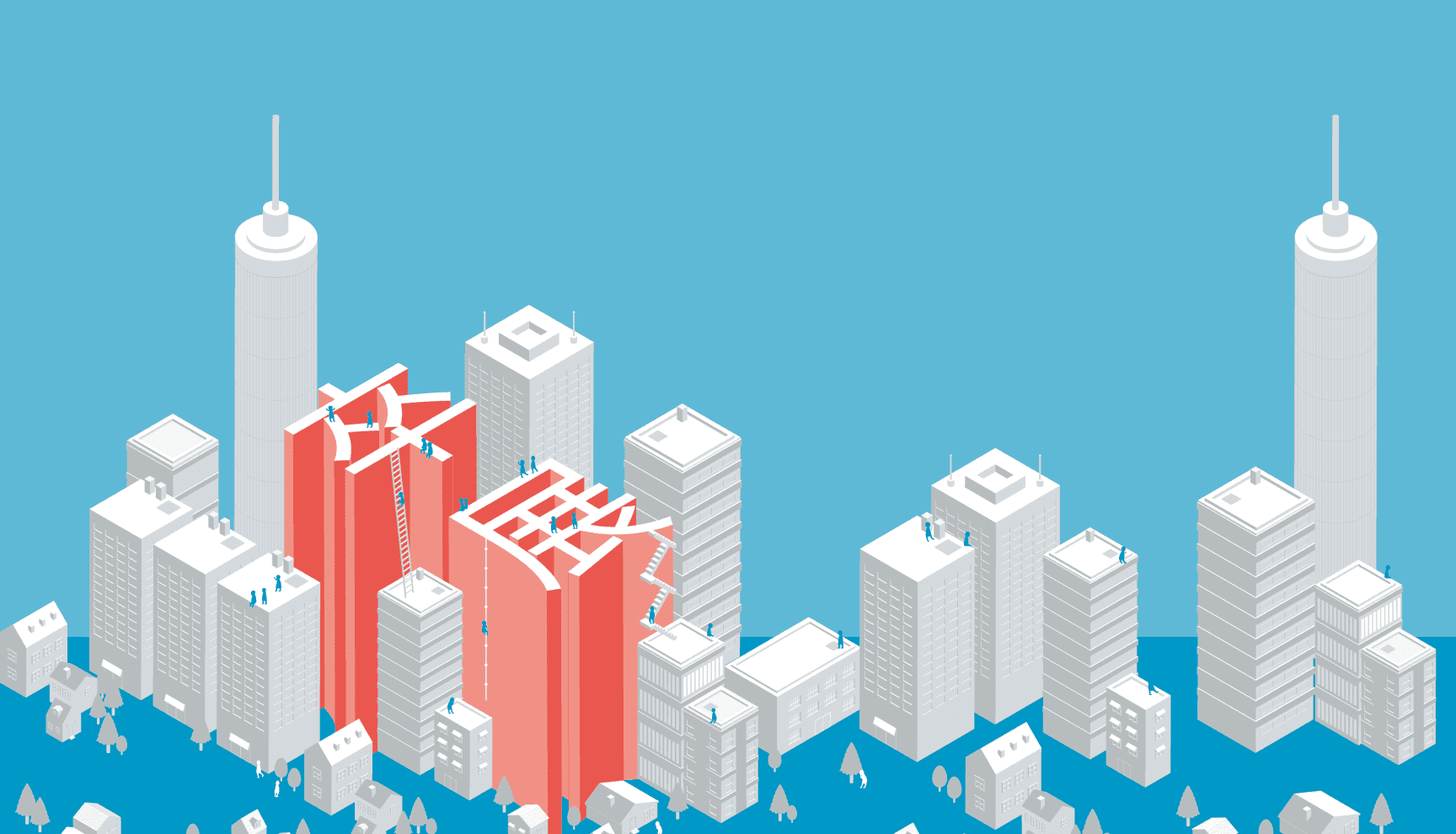
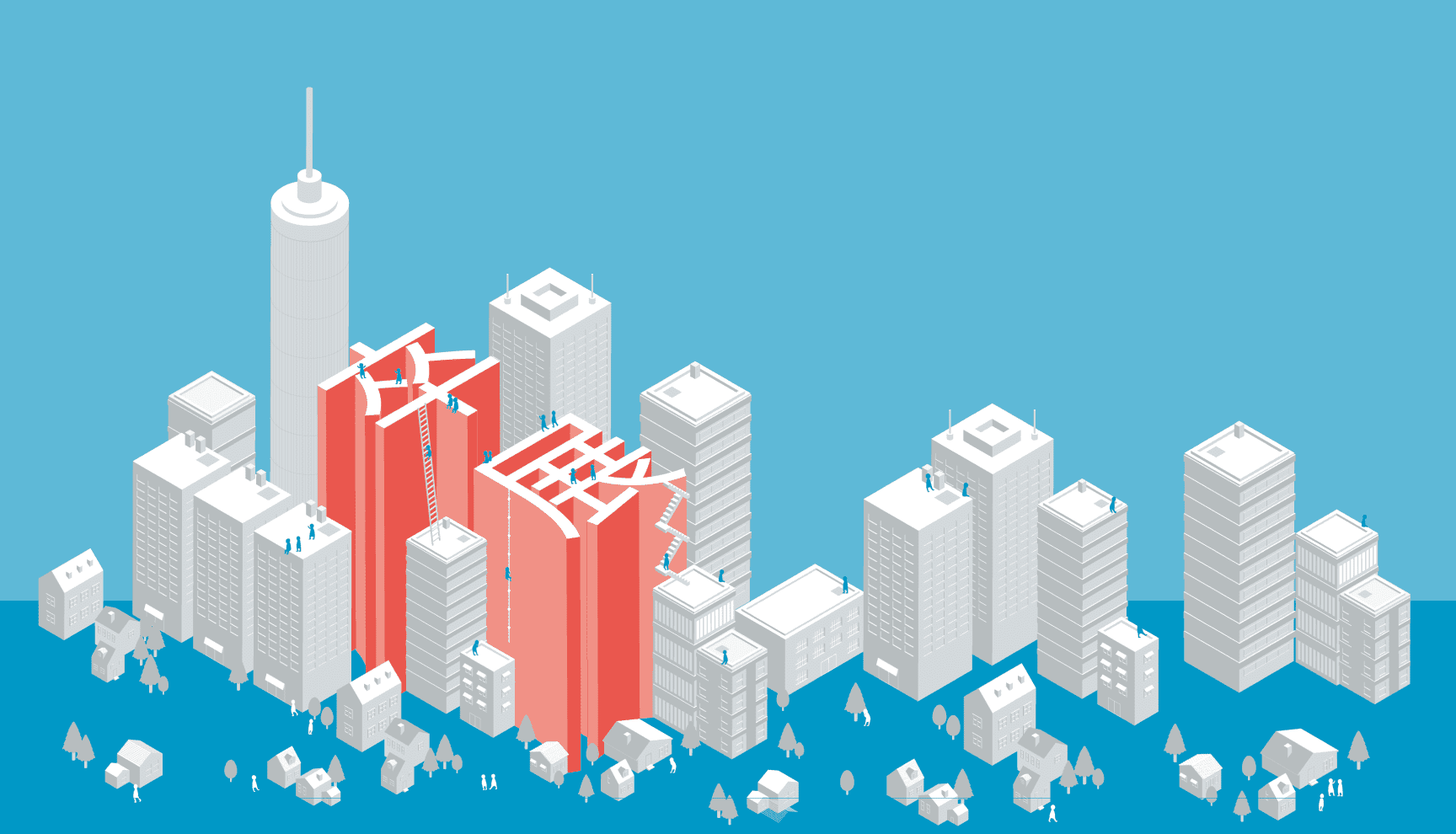
メインビジュアル、タイトル画像差し替え

diff --git a/docs/index.html b/docs/index.html
@@ -1,1 +1,1 @@
-<html lang="ja"> <head prefix="og:http://ogp.me/ns#"> <meta property="og:url" content="https://myu-design.jp/sotsuten2021/"> <meta property="og:type" content="website"> <meta property="og:image" content="https://myu-design.jp/sotsuten2021/img/background.png"> <meta property="og:title" content="宮城大学 2021年度 卒業研究・制作展"> <meta property="og:description" content="2021年度 宮城大学 事業構想学群 価値創造デザイン学類 卒業研究・制作展 + 宮城大学院 事業構想学研究科 修士 制作展"> <meta name="twitter:card" content="summary"> <meta charset="utf-8"> <meta name="description" content="2021年度 宮城大学 事業構想学群 価値創造デザイン学類 卒業研究・制作展 + 宮城大学院 事業構想学研究科 修士 制作展"> <meta name="viewport" content="width=device-width,initial-scale=1"> <link rel="icon" href="favicon.ico"> <title>宮城大学 2021年度 卒業研究・制作展</title> <link rel="stylesheet" href="css/common.css"> <link rel="stylesheet" href="css/style.css"> <script src="js/main.js"></script> </head> <body> <div id="loading"> <div id="load-box"> <svg id="load-svg" width="24" height="64" viewBox="0 0 21 64" fill="#00A3D6"> <path id="man-foot-1" d="M11.7948 40.0643C11.6898 42.1259 10.7779 51.2616 10.7272 51.9929C11.5528 52.0605 12.2342 52.0833 12.9041 52.1838C13.0004 52.1904 13.0944 52.2158 13.1807 52.2587C13.2669 52.3015 13.3437 52.361 13.4065 52.4335C13.4693 52.506 13.5169 52.5902 13.5464 52.6811C13.576 52.772 13.587 52.8678 13.5788 52.963C13.5821 53.1734 13.5018 53.3768 13.3552 53.5293C13.2086 53.6818 13.0073 53.7713 12.7947 53.7785C12.6086 53.8003 11.0622 53.7507 10.4159 53.8208C9.15825 53.9597 8.83721 53.7587 8.69258 52.5126C8.35474 49.6038 7.32023 39.8386 7.30448 39.6155C7.19948 38.1243 11.8751 38.4868 11.7948 40.0641"/> <path id="man-foot-2" d="M11.7948 40.0643C11.6898 42.1259 10.7779 51.2616 10.7272 51.9929C11.5528 52.0605 12.2342 52.0833 12.9041 52.1838C13.0004 52.1904 13.0944 52.2158 13.1807 52.2587C13.2669 52.3015 13.3437 52.361 13.4065 52.4335C13.4693 52.506 13.5169 52.5902 13.5464 52.6811C13.576 52.772 13.587 52.8678 13.5788 52.963C13.5821 53.1734 13.5018 53.3768 13.3552 53.5293C13.2086 53.6818 13.0073 53.7713 12.7947 53.7785C12.6086 53.8003 11.0622 53.7507 10.4159 53.8208C9.15825 53.9597 8.83721 53.7587 8.69258 52.5126C8.35474 49.6038 7.32023 39.8386 7.30448 39.6155C7.19948 38.1243 11.8751 38.4868 11.7948 40.0641"/> <path id="man-body" d="M12.2678 22.2904C14.0557 21.8972 16.6148 19.5858 16.6148 16.7666C16.5819 15.276 15.9566 13.8583 14.8745 12.8207C13.7924 11.783 12.3407 11.209 10.8338 11.223C6.85848 11.223 5.07453 14.0721 5.07453 16.6736C5.07453 18.8414 6.34293 20.2449 8.49438 22.1728C6.68235 24.6273 3.79747 28.9354 2.65402 39.4691C2.22641 43.9468 6.62276 44.7571 9.37743 44.726C11.6244 44.7566 16.6151 44.7299 16.6148 39.164C16.6148 29.4689 13.7404 24.787 12.2678 22.2899"/> </svg> <div id="load-bar"></div> </div> </div> <header> <label for="menu-check" class="test"><img id="menu-button" src="./img/menu-button.svg" alt="menu-button"/></label> <input type="checkbox" id="menu-check"> <ul id="header-ul"> <li class="header-li"> <a href="#outline"><img class="header-nav-img" src="./img/outline.svg"/></a> </li> <li class="header-li"> <a href="#greeting"><img class="header-nav-img" src="./img/greeting.svg"/></a> </li> <li class="header-li"> <a href="#contents"><img class="header-nav-img" src="./img/contents.svg"/></a> </li> <li class="header-li"> <a href="#event"><img class="header-nav-img" src="./img/event.svg"/></a> </li> <li class="header-li"> <a href="#access"><img class="header-nav-img" src="./img/access.svg"/></a> </li> </ul> </header> <div id="header-space"></div> <div id="top-img"> <img id="title-img" src="./img/title.svg" alt="title"> <img id="title-img-sp" src="./img/title-sp.svg" alt="title"> </div> <div id="top-info-outer-div"> <div id="top-info-inner-div"> <div id="top-info-text-div">新型コロナウイルス感染症への対応について</div> </div> </div> <div id="modal"> <div id="modal-window"> <div id="modal-contents"> <h1>新型コロナウイルス感染症への対応について</h1> <p>宮城大学・卒展2021の開催にあたり、安心してご鑑賞いただくため、新型コロナウイルス感染症拡大防止に必要な対策を講じてまいります。皆様にはご不便をおかけしますが、ご来場の際にはご理解とご協力をお願いいたします。また、新型コロナウイルス感染症拡大により公開を中止する場合があります。来場前に必ずホームページにて開催状況を確認の上ご来場ください。</p> <h3>以下の方はご来場をお控えください。</h3> <ul> <li>37.5℃以上の発熱がある方</li> <li>倦怠感や息苦しさがある方</li> <li>味覚・嗅覚に異常を感じる方</li> <li>身近に新型コロナウイルス感染者（疑いを含む）がいる方</li> <li>過去14日以内に新型コロナウイルス感染者と濃厚接触があった方</li> <li>過去14日以内に感染拡大地域や海外への渡航歴がある方</li> </ul> <h3>入場の際には下記にご協力ください。</h3> <ul> <li>必ずマスクの着用をお願いします。</li> <li>展示会場内は一方通行にご協力ください。(サインを掲示しておりますので、ご確認ください。)</li> </ul> <h3>展示会場での取り組み</h3> <ul> <li>万が一、会場内で新型コロナウイルス感染症の感染者が出た場合に備え、ご入場前に「お名前・住所・連絡先」を記入いただきます。(個人情報の取り扱いには十分留意し、他の用途には使用いたしませんので、ご了承ください。)</li> <li>会場内入り口付近に手指消毒液を配置しています。ご入場の前に消毒にご協力ください。</li> <li>スタッフはマスクを着用し、手洗い、消毒液などによる手指消毒を励行いたします。</li> <li>ご来場の皆様がお手を触れられる箇所は、こまめにアルコール消毒をおこないます。</li> </ul> </div> <div id="modal-close-div"> <button id="modal-close-button">CLOSE</button> </div> </div> </div> <main> <section id="outline"> <img src="./img/outline-red.svg"/> <div class="section-title-ja">開催概要</div> <div id="outline-name"> 宮城大学 事業構想学群<br> 生活環境・感性情報デザインコース<br> 空間デザインコース・メディアデザインコース<br> 卒業研究・制作展＋大学院事業構想学研究科修士制作展 </div> <ul> <li>場所｜宮城大学大和キャンパス デザイン研究棟ほか</li> <li>日時｜2022年2月18日(金) - 20日(日) 10:00 ~ 19:00</li> <li>入場料金｜無料</li> </ul> </section> <section id="greeting"> <img src="img/greeting-red.svg"/> <div class="section-title-ja">開催にあたって</div> <p> かつてワルター・グロピウスが「旅する建築家として私の心にまず浮かぶのは、芸術家・建築家・プランナーは、新しい文化に何を貢献しうるかという疑問であった。」と言ったように、デザイナーは新たなモノや価値を生み出す職能として理解されているが、過去の文化を更新してゆくことでしか新しい文化に到達しえないのだとすれば、ここに発表された数々の学生たちの試みはデザインとしての本質を十分に踏まえたものだと言えるのではないだろうか。<br> <br> グロピウスは続ける。 「最も大切だと思われることは、あらゆるデザイナーが自分の個人的なデザインについて、全体のなかで果たす役割を考えることである。」と。卒業制作では学生が個々に社会での役割を「想定」し、できる限りの提案をするが、これからは実際の社会で、大学で取り組む課題では直面しえない、想定を上回る場面の連続に直面することになるだろう。<br> <br> 折しも一昨年来のコロナ禍で世界はこれまでの価値観では対応できないことが増えている。恐れずむしろ新たな価値観を社会に提案し、その価値を確かめていく勇気と心構えを携えていく彼らの旅の始まりを言祝ぐ機会になればと思う。 </p> <div id="greeting-teacher-div"> <div id="greeting-teacher-name"> <span class="other-span">価値創造デザイン学類長</span> <span class="other-span">土岐謙次 教授</span> </div> <img src="img/greeting_teacher-img.png" id="greeting-img"> </div> </section> <section id="contents"> <img src="./img/contents-red.svg"/> <div class="section-title-ja">展示研究室</div> <div class="contents_list"> <h2>感性情報デザインコース</h2> <h3>鹿野研究室</h3> <div id="kano-labo"> </div> <h3>須栗研究室</h3> <div id="suguri-labo"> </div> <h3>鈴木研究室</h3> <div id="suzuki-labo"> </div> <h3>土岐研究室</h3> <div id="toki-labo"> </div> <h3>日原研究室</h3> <div id="hihara-labo"> </div> <h3>蒔苗研究室</h3> <div id="makanae-labo"> </div> <br> <h2>生活環境デザインコース</h2> <h3>伊藤研究室</h3> <div id="itoh-labo"> </div> <h3>井上研究室</h3> <div id="inoue-labo"> </div> <h3>中田研究室</h3> <div id="nakata-labo"> </div> <h3>平岡研究室</h3> <div id="hiraoka-labo"> </div> <h3>小地沢研究室</h3> <div id="kochizawa-labo"> </div> <div id="research-link-div"> <a href="https://www.myu-design.jp/research/" role="button" id="research-link">卒展作品集サイトはこちら</a> </div> </div> </section> <section id="event"> <img src="./img/event-red.svg"/> <div class="section-title-ja">イベント</div> <h2>卒業制作自主レビュー</h2> <p>大学外部からゲスト講師を招き、学生による自主レビューを開催します。</p> <ul> <li>場所 | 宮城大学大和キャンパス（卒展会場）</li> <li>日時 | 2022年2月19日(土)</li> <li>主催 | 宮城大学 事業構想学群 価値創造デザイン学類</li> <li>協力 | 宮城大学 地域連携センター</li> </ul> <h2>タイムテーブル</h2> <p>comming sooon</p> <br> <h2>講師プロフィール</h2> <ul id="lecturer-profile-ul"> </ul> </section> <section id="access"> <img src="./img/access-red.svg"/> <div class="section-title-ja">アクセス</div> <p>宮城大学 大和キャンパス</p> <p>〒981-3298 宮城県黒川郡大和町学苑1番地1</p> <div id="map"> <iframe src="https://www.google.com/maps/embed?pb=!1m18!1m12!1m3!1d3128.981830604022!2d140.83872361514474!3d38.349402579658985!2m3!1f0!2f0!3f0!3m2!1i1024!2i768!4f13.1!3m3!1m2!1s0x5f8981bbb6048c0b%3A0x381e04faa6d0b3e!2z5a6u5Z-O5aSn5a2mIOWkp-WSjOOCreODo-ODs-ODkeOCuQ!5e0!3m2!1sja!2sjp!4v1610949813968!5m2!1sja!2sjp" width="100%" height="100%" frameborder="0" style="border:0" allowfullscreen="" aria-hidden="false" tabindex="0"></iframe> </div> </section> </main> <footer> <div id="footer-contact-div"> <span class="other-span">卒業研究・制作展事務局</span><br> <span class="other-span">myu_sotsuten@myu.ac.jp</span><br> <span class="other-span">022-377-8332</span> </div> <div class="footer_center"> <a href="http://myu-design.jp/" role="button" id="portal-link">宮城大学デザインポータルHP</a> </div> <div>MYU Design&copy;2021</div> </footer> </body> </html>
+<html lang="ja"> <head prefix="og:http://ogp.me/ns#"> <meta property="og:url" content="https://myu-design.jp/sotsuten2021/"> <meta property="og:type" content="website"> <meta property="og:image" content="https://myu-design.jp/sotsuten2021/img/background.png"> <meta property="og:title" content="宮城大学 2021年度 卒業研究・制作展"> <meta property="og:description" content="2021年度 宮城大学 事業構想学群 価値創造デザイン学類 卒業研究・制作展 + 宮城大学院 事業構想学研究科 修士 制作展"> <meta name="twitter:card" content="summary"> <meta charset="utf-8"> <meta name="description" content="2021年度 宮城大学 事業構想学群 価値創造デザイン学類 卒業研究・制作展 + 宮城大学院 事業構想学研究科 修士 制作展"> <meta name="viewport" content="width=device-width,initial-scale=1"> <link rel="icon" href="favicon.ico"> <title>宮城大学 2021年度 卒業研究・制作展</title> <link rel="stylesheet" href="css/common.css"> <link rel="stylesheet" href="css/style.css"> <script src="js/main.js"></script> </head> <body> <header> <label for="menu-check" class="test"><img id="menu-button" src="./img/menu-button.svg" alt="menu-button"/></label> <input type="checkbox" id="menu-check"> <nav> <ul id="header-ul"> <li class="header-li"> <a href="#outline"><img class="header-nav-img" src="./img/outline.svg"/></a> </li> <li class="header-li"> <a href="#greeting"><img class="header-nav-img" src="./img/greeting.svg"/></a> </li> <li class="header-li"> <a href="#contents"><img class="header-nav-img" src="./img/contents.svg"/></a> </li> <li class="header-li"> <a href="#event"><img class="header-nav-img" src="./img/event.svg"/></a> </li> <li class="header-li"> <a href="#access"><img class="header-nav-img" src="./img/access.svg"/></a> </li> </ul> </nav> </header> <div id="header-space"></div> <div> <img id="top-background-img" src="./img/background.png" alt=""> <img id="title-img" src="./img/title.png" alt="title"> <img id="title-img-sp" src="./img/title-sp.png" alt="title"> </div> <div id="top-info-outer-div"> <div id="top-info-inner-div"> <div id="top-info-text-div">新型コロナウイルス感染症への対応について</div> </div> </div> <div id="modal"> <div id="modal-window"> <div id="modal-contents"> <h1>新型コロナウイルス感染症への対応について</h1> <p>宮城大学・卒展2021の開催にあたり、安心してご鑑賞いただくため、新型コロナウイルス感染症拡大防止に必要な対策を講じてまいります。皆様にはご不便をおかけしますが、ご来場の際にはご理解とご協力をお願いいたします。また、新型コロナウイルス感染症拡大により公開を中止する場合があります。来場前に必ずホームページにて開催状況を確認の上ご来場ください。</p> <h3>以下の方はご来場をお控えください。</h3> <ul> <li>37.5℃以上の発熱がある方</li> <li>倦怠感や息苦しさがある方</li> <li>味覚・嗅覚に異常を感じる方</li> <li>身近に新型コロナウイルス感染者（疑いを含む）がいる方</li> <li>過去14日以内に新型コロナウイルス感染者と濃厚接触があった方</li> <li>過去14日以内に感染拡大地域や海外への渡航歴がある方</li> </ul> <h3>入場の際には下記にご協力ください。</h3> <ul> <li>必ずマスクの着用をお願いします。</li> <li>展示会場内は一方通行にご協力ください。(サインを掲示しておりますので、ご確認ください。)</li> </ul> <h3>展示会場での取り組み</h3> <ul> <li>万が一、会場内で新型コロナウイルス感染症の感染者が出た場合に備え、ご入場前に「お名前・住所・連絡先」を記入いただきます。(個人情報の取り扱いには十分留意し、他の用途には使用いたしませんので、ご了承ください。)</li> <li>会場内入り口付近に手指消毒液を配置しています。ご入場の前に消毒にご協力ください。</li> <li>スタッフはマスクを着用し、手洗い、消毒液などによる手指消毒を励行いたします。</li> <li>ご来場の皆様がお手を触れられる箇所は、こまめにアルコール消毒をおこないます。</li> </ul> </div> <div id="modal-close-div"> <button id="modal-close-button">CLOSE</button> </div> </div> </div> <main> <section id="outline"> <img src="./img/outline-red.svg"/> <div class="section-title-ja">開催概要</div> <div id="outline-name"> 宮城大学 事業構想学群<br> 生活環境・感性情報デザインコース<br> 空間デザインコース・メディアデザインコース<br> 卒業研究・制作展＋大学院事業構想学研究科修士制作展 </div> <ul> <li>場所｜宮城大学大和キャンパス デザイン研究棟ほか</li> <li>日時｜2022年2月18日(金) - 20日(日) 10:00 ~ 19:00</li> <li>入場料金｜無料</li> </ul> </section> <section id="greeting"> <img src="img/greeting-red.svg"/> <div class="section-title-ja">開催にあたって</div> <p> かつてワルター・グロピウスが「旅する建築家として私の心にまず浮かぶのは、芸術家・建築家・プランナーは、新しい文化に何を貢献しうるかという疑問であった。」と言ったように、デザイナーは新たなモノや価値を生み出す職能として理解されているが、過去の文化を更新してゆくことでしか新しい文化に到達しえないのだとすれば、ここに発表された数々の学生たちの試みはデザインとしての本質を十分に踏まえたものだと言えるのではないだろうか。<br> <br> グロピウスは続ける。 「最も大切だと思われることは、あらゆるデザイナーが自分の個人的なデザインについて、全体のなかで果たす役割を考えることである。」と。卒業制作では学生が個々に社会での役割を「想定」し、できる限りの提案をするが、これからは実際の社会で、大学で取り組む課題では直面しえない、想定を上回る場面の連続に直面することになるだろう。<br> <br> 折しも一昨年来のコロナ禍で世界はこれまでの価値観では対応できないことが増えている。恐れずむしろ新たな価値観を社会に提案し、その価値を確かめていく勇気と心構えを携えていく彼らの旅の始まりを言祝ぐ機会になればと思う。 </p> <div id="greeting-teacher-div"> <div id="greeting-teacher-name"> <span class="other-span">価値創造デザイン学類長</span> <span class="other-span">土岐謙次 教授</span> </div> <img src="img/greeting_teacher-img.png" id="greeting-img"> </div> </section> <section id="contents"> <img src="./img/contents-red.svg"/> <div class="section-title-ja">展示研究室</div> <div class="contents_list"> <h2>感性情報デザインコース</h2> <h3>鹿野研究室</h3> <div id="kano-labo"> </div> <h3>須栗研究室</h3> <div id="suguri-labo"> </div> <h3>鈴木研究室</h3> <div id="suzuki-labo"> </div> <h3>土岐研究室</h3> <div id="toki-labo"> </div> <h3>日原研究室</h3> <div id="hihara-labo"> </div> <h3>蒔苗研究室</h3> <div id="makanae-labo"> </div> <br> <h2>生活環境デザインコース</h2> <h3>伊藤研究室</h3> <div id="itoh-labo"> </div> <h3>井上研究室</h3> <div id="inoue-labo"> </div> <h3>中田研究室</h3> <div id="nakata-labo"> </div> <h3>平岡研究室</h3> <div id="hiraoka-labo"> </div> <h3>小地沢研究室</h3> <div id="kochizawa-labo"> </div> <div id="research-link-div"> <a href="https://www.myu-design.jp/research/" role="button" id="research-link">卒展作品集サイトはこちら</a> </div> </div> </section> <section id="event"> <img src="./img/event-red.svg"/> <div class="section-title-ja">イベント</div> <h2>卒業制作自主レビュー</h2> <p>大学外部からゲスト講師を招き、学生による自主レビューを開催します。</p> <ul> <li>場所 | 宮城大学大和キャンパス（卒展会場）</li> <li>日時 | 2022年2月19日(土)</li> <li>主催 | 宮城大学 事業構想学群 価値創造デザイン学類</li> <li>協力 | 宮城大学 地域連携センター</li> </ul> <h2>タイムテーブル</h2> <p>comming sooon</p> <br> <h2>講師プロフィール</h2> <ul id="lecturer-profile-ul"> </ul> </section> <section id="access"> <img src="./img/access-red.svg"/> <div class="section-title-ja">アクセス</div> <p>宮城大学 大和キャンパス</p> <p>〒981-3298 宮城県黒川郡大和町学苑1番地1</p> <div id="map"> <iframe src="https://www.google.com/maps/embed?pb=!1m18!1m12!1m3!1d3128.981830604022!2d140.83872361514474!3d38.349402579658985!2m3!1f0!2f0!3f0!3m2!1i1024!2i768!4f13.1!3m3!1m2!1s0x5f8981bbb6048c0b%3A0x381e04faa6d0b3e!2z5a6u5Z-O5aSn5a2mIOWkp-WSjOOCreODo-ODs-ODkeOCuQ!5e0!3m2!1sja!2sjp!4v1610949813968!5m2!1sja!2sjp" width="100%" height="100%" frameborder="0" style="border:0" allowfullscreen="" aria-hidden="false" tabindex="0"></iframe> </div> </section> </main> <footer> <div id="footer-contact-div"> <span class="other-span">卒業研究・制作展事務局</span><br> <span class="other-span">myu_sotsuten@myu.ac.jp</span><br> <span class="other-span">022-377-8332</span> </div> <div class="footer_center"> <a href="http://myu-design.jp/" role="button" id="portal-link">宮城大学デザインポータルHP</a> </div> <div>MYU Design&copy;2021</div> </footer> </body> </html>

diff --git a/docs/css/style.css b/docs/css/style.css
@@ -1,1 +1,1 @@
-#header-ul{align-items:center;display:flex;height:100%;justify-content:flex-end;width:100%}.header-nav-img{padding:32px}#menu-button,#menu-check{display:none}#header-space{height:80px}#top-img{background-image:url(../img/background.png);background-size:cover;height:calc(100vh - 80px);width:100%}#title-img{position:absolute;right:32px;top:160px}#title-img-sp{display:none}#top-info-outer-div{background:linear-gradient(#0098c6,#e8f5f9);height:216px;overflow:hidden;transform:translateY(-1px);width:100%}#top-info-inner-div{background-clip:content-box;background-color:#fff;cursor:pointer;height:42px;margin:76px auto;max-width:800px;overflow:hidden;padding:0 80px}#top-info-text-div{border-bottom:1px solid #185466;height:16px;line-height:16px;margin:13px auto;max-width:360px;text-align:center}.section-title-ja{color:#ea574e;font-size:12px;font-weight:500;transform:translateY(-10px)}#modal{background-color:rgba(0,0,0,.5);box-sizing:border-box;display:none;height:100vh;left:0;padding:80px;position:fixed;top:0;width:100vw;z-index:3}#modal-window{background-color:#fff;height:calc(100vh - 224px);margin:0 auto;max-width:800px;padding:32px 64px}#modal-contents{height:calc(100% - 64px);overflow:auto;overscroll-behavior:contain}#modal-close-div{height:64px;text-align:center}#modal-close-button{background:none;border-color:#185466;color:#185466;cursor:pointer;height:32px;margin-top:32px;padding:0;width:128px}#outline-name{font-size:20px;font-weight:500;line-height:1.6;margin-bottom:24px}#greeting-teacher-div{display:flex;justify-content:flex-end}#greeting-img{height:120px;width:120px}#greeting-teacher-name{align-content:center;align-items:center;display:flex;flex-direction:column;height:120px;justify-content:center;padding-right:16px}.other-span{margin:0}#research-link-div{text-align:center}#research-link{background-color:#0098c6;border-radius:39px;color:#fff;display:inline-block;font-size:20px;font-weight:600;line-height:58px;margin-top:40px;padding:0 20px;text-decoration:none}#lecturer-profile-ul{align-content:flex-start;align-items:flex-start;display:flex;flex-wrap:wrap;gap:40px;justify-content:space-between}.lecturer-profile-li{background-color:#fff;border:4px solid #f19185;display:grid;min-height:384px;padding:12px;width:348px}.lecturer-profile-img{float:right;height:120px;width:120px}.lecturer-profile-text{display:block;font-size:12px}.lecturer-profile-name{font-size:20px;font-weight:700}#map{height:80vh}#footer-contact-div{padding-top:48px}#portal-link-div{text-align:center}#portal-link{background-color:#fff;border-radius:39px;color:#0098c6;display:inline-block;font-size:16px;font-weight:400;line-height:48px;margin:16px;padding:0 20px;text-decoration:none}#loading{align-items:center;-webkit-animation:blurAnim 3s ease 3s;animation:blurAnim 6s ease 0s;background-color:hsla(0,0%,100%,0);display:flex;height:100vh;justify-content:center;pointer-events:none;position:fixed;top:0;width:100vw;z-index:5}@keyframes blurAnim{0%{backdrop-filter:blur(10px);-webkit-backdrop-filter:blur(10px);background-color:#fff}50%{backdrop-filter:blur(10px);-webkit-backdrop-filter:blur(10px);background-color:#fff}to{backdrop-filter:blur(0);-webkit-backdrop-filter:blur(0);background-color:hsla(0,0%,100%,0)}}#load-box{height:100px;margin:0 auto;text-align:center;width:30%}#load-svg{animation:fadeOut 6s ease 0s;opacity:0}@keyframes fadeOut{0%{opacity:1}50%{opacity:1}to{opacity:0}}#load-bar{-webkit-animation:loadingAnim 6s ease 0s;animation:loadingAnim 6s ease 0s;border:5px #00a3d6;border-style:none none solid;opacity:0;transform-origin:0 0}@keyframes loadingAnim{0%{opacity:1;transform:scaleX(0)}50%{opacity:1;transform:scaleX(1)}to{opacity:0}}#man-foot-1{animation:walkAnim-1 2s linear 0s infinite;transform-origin:40% 40%}@keyframes walkAnim-1{0%{transform:rotate(-15deg)}50%{transform:rotate(18deg)}to{transform:rotate(-15deg)}}#man-foot-2{animation:walkAnim-2 2s linear 0s infinite;transform-origin:40% 40%}@keyframes walkAnim-2{0%{transform:rotate(18deg)}50%{transform:rotate(-15deg)}to{transform:rotate(18deg)}}#man-body{animation:walkAnim-body 2s linear 0s infinite;transform-origin:0 100%}@keyframes walkAnim-body{0%{transform:scaleY(1)}25%{transform:scaleY(1.05)}50%{transform:scaleY(1)}75%{transform:scaleY(1.05)}to{transform:scaleY(1)}}@media screen and (max-width:750px){#header-ul{backdrop-filter:blur(10px);-webkit-backdrop-filter:blur(10px);background-color:rgba(0,152,198,.3);flex-direction:column;height:auto;justify-content:flex-start;opacity:0;padding:16px;position:fixed;top:0;transform:translateY(-100%);transition:all .5s ease;width:100%}.header-nav-img{padding:12px}#menu-check:checked+#header-ul{opacity:1;transform:translateY(0)}#menu-button{display:block;float:right;padding:14px;z-index:4}#header-space{height:52px}#top-img{background-position:left 30% bottom 0;height:calc(100vh - 52px)}#title-img{display:none}#title-img-sp{display:block;position:absolute;right:32px;top:160px}#top-info-inner-div{padding:0 16px}#top-info-text-div{max-width:320px}#modal{padding:16px}#modal-window{padding:32px 16px}#research-link{font-size:16px;line-height:36px}#lecturer-profile-ul{justify-content:space-around}}
+#header-ul{align-items:center;display:flex;height:100%;justify-content:flex-end;width:100%}.header-nav-img{padding:32px}#menu-button,#menu-check{display:none}#header-space{height:80px}#top-background-img{height:calc(100vh - 80px);object-fit:cover;object-position:0 0;width:100%}#title-img{position:absolute;right:32px;top:160px}#title-img-sp{display:none}#top-info-outer-div{background:linear-gradient(#0098c6,#e8f5f9);height:216px;overflow:hidden;transform:translateY(-1px);width:100%}#top-info-inner-div{background-clip:content-box;background-color:#fff;cursor:pointer;height:42px;margin:76px auto;max-width:800px;overflow:hidden;padding:0 80px}#top-info-text-div{border-bottom:1px solid #185466;height:16px;line-height:16px;margin:13px auto;max-width:360px;text-align:center}.section-title-ja{color:#ea574e;font-size:12px;font-weight:500;transform:translateY(-10px)}#modal{background-color:rgba(0,0,0,.5);box-sizing:border-box;display:none;height:100vh;left:0;padding:80px;position:fixed;top:0;width:100vw;z-index:3}#modal-window{background-color:#fff;height:calc(100vh - 224px);margin:0 auto;max-width:800px;padding:32px 64px}#modal-contents{height:calc(100% - 64px);overflow:auto;overscroll-behavior:contain}#modal-close-div{height:64px;text-align:center}#modal-close-button{background:none;border-color:#185466;color:#185466;cursor:pointer;height:32px;margin-top:32px;padding:0;width:128px}#outline-name{font-size:20px;font-weight:500;line-height:1.6;margin-bottom:24px}#greeting-teacher-div{display:flex;justify-content:flex-end}#greeting-img{height:120px;width:120px}#greeting-teacher-name{align-content:center;align-items:center;display:flex;flex-direction:column;height:120px;justify-content:center;padding-right:16px}.other-span{margin:0}#research-link-div{text-align:center}#research-link{background-color:#0098c6;border-radius:39px;color:#fff;display:inline-block;font-size:20px;font-weight:600;line-height:58px;margin-top:40px;padding:0 20px;text-decoration:none}#lecturer-profile-ul{align-content:flex-start;align-items:flex-start;display:flex;flex-wrap:wrap;gap:40px;justify-content:space-between}.lecturer-profile-li{background-color:#fff;border:4px solid #f19185;display:grid;min-height:384px;padding:12px;width:348px}.lecturer-profile-img{float:right;height:120px;width:120px}.lecturer-profile-text{display:block;font-size:12px}.lecturer-profile-name{font-size:20px;font-weight:700}#map{height:80vh}#footer-contact-div{padding-top:48px}#portal-link-div{text-align:center}#portal-link{background-color:#fff;border-radius:39px;color:#0098c6;display:inline-block;font-size:16px;font-weight:400;line-height:48px;margin:16px;padding:0 20px;text-decoration:none}#loading{align-items:center;-webkit-animation:blurAnim 3s ease 3s;animation:blurAnim 6s ease 0s;background-color:hsla(0,0%,100%,0);display:flex;height:100vh;justify-content:center;pointer-events:none;position:fixed;top:0;width:100vw;z-index:5}@keyframes blurAnim{0%{backdrop-filter:blur(10px);-webkit-backdrop-filter:blur(10px);background-color:#fff}50%{backdrop-filter:blur(10px);-webkit-backdrop-filter:blur(10px);background-color:#fff}to{backdrop-filter:blur(0);-webkit-backdrop-filter:blur(0);background-color:hsla(0,0%,100%,0)}}#load-box{height:100px;margin:0 auto;text-align:center;width:30%}#load-svg{animation:fadeOut 6s ease 0s;opacity:0}@keyframes fadeOut{0%{opacity:1}50%{opacity:1}to{opacity:0}}#load-bar{-webkit-animation:loadingAnim 6s ease 0s;animation:loadingAnim 6s ease 0s;border:5px #00a3d6;border-style:none none solid;opacity:0;transform-origin:0 0}@keyframes loadingAnim{0%{opacity:1;transform:scaleX(0)}50%{opacity:1;transform:scaleX(1)}to{opacity:0}}#man-foot-1{animation:walkAnim-1 2s linear 0s infinite;transform-origin:40% 40%}@keyframes walkAnim-1{0%{transform:rotate(-15deg)}50%{transform:rotate(18deg)}to{transform:rotate(-15deg)}}#man-foot-2{animation:walkAnim-2 2s linear 0s infinite;transform-origin:40% 40%}@keyframes walkAnim-2{0%{transform:rotate(18deg)}50%{transform:rotate(-15deg)}to{transform:rotate(18deg)}}#man-body{animation:walkAnim-body 2s linear 0s infinite;transform-origin:0 100%}@keyframes walkAnim-body{0%{transform:scaleY(1)}25%{transform:scaleY(1.05)}50%{transform:scaleY(1)}75%{transform:scaleY(1.05)}to{transform:scaleY(1)}}@media screen and (max-width:750px){#header-ul{flex-direction:column;height:auto}.header-nav-img{padding:12px}#menu-check:checked+nav{opacity:1;transform:translateY(0)}#menu-button{display:block;float:right;padding:14px;z-index:4}#header-space{height:52px}#top-background-img{height:calc(100vh - 80px);object-fit:cover;object-position:30% 0;width:100%}#title-img{display:none}#title-img-sp{display:block;position:absolute;right:16px;top:160px}#top-info-inner-div{padding:0 16px}#top-info-text-div{max-width:320px}#modal{padding:16px}#modal-window{padding:32px 16px}#research-link{font-size:16px;line-height:36px}#lecturer-profile-ul{justify-content:space-around}}

diff --git a/docs/js/main.js b/docs/js/main.js
@@ -1,1 +1,1 @@
-(()=>{fetch("./json/exhibitor.json").then((e=>e.json())).then((t=>e(t))),fetch("./json/lecturer.json").then((e=>e.json())).then((e=>n(e))),window.onload=()=>{let e=!1;const t=document.getElementById("modal"),n=document.getElementById("header-ul"),c=document.getElementById("menu-check");document.getElementById("top-info-inner-div").onclick=()=>{t.style.display="block",e=!0},document.getElementById("modal-close-button").onclick=()=>{t.style.display="none",e=!1},document.addEventListener("click",(d=>{d.target===t&&e&&(t.style.display="none",e=!1),d.target!==n&&d.target!==c&&(c.checked=!1)}))};const e=e=>{e.forEach((e=>{document.getElementById(e.labo+"-labo").appendChild(t(e))}))},t=e=>{const t=document.createElement("span"),n=document.createTextNode(e.name);return t.appendChild(n),t},n=e=>{e.forEach((e=>{document.getElementById("lecturer-profile-ul").appendChild(c(e))}))},c=e=>{const t=document.createElement("img");t.setAttribute("class","lecturer-profile-img"),t.setAttribute("src","./img/lecturers/"+e.img_name);const n=document.createTextNode(e.roman),c=document.createElement("span");c.setAttribute("class","lecturer-profile-text"),c.appendChild(n);const d=document.createTextNode(e.name),o=document.createElement("span");o.setAttribute("class","lecturer-profile-name"),o.appendChild(d);const l=document.createTextNode(e.belongs),r=document.createElement("span");r.setAttribute("class","lecturer-profile-text"),r.appendChild(l);const a=document.createElement("div");a.appendChild(t),a.appendChild(c),a.appendChild(o),a.appendChild(r);const m=document.createTextNode(e.position+"  "+e.career),s=document.createElement("p");s.appendChild(m);const i=document.createElement("li");return i.setAttribute("class","lecturer-profile-li"),i.appendChild(a),i.appendChild(s),i}})();
+(()=>{fetch("./json/exhibitor.json").then((e=>e.json())).then((t=>e(t))),fetch("./json/lecturer.json").then((e=>e.json())).then((e=>n(e))),window.onload=()=>{let e=!1;const t=document.getElementById("modal"),n=document.getElementById("header-ul"),o=document.getElementById("menu-check");document.getElementById("top-info-inner-div").onclick=()=>{t.style.display="block",e=!0},document.getElementById("modal-close-button").onclick=()=>{t.style.display="none",e=!1},document.addEventListener("click",(c=>{c.target===t&&e&&(t.style.display="none",e=!1),c.target!==n&&c.target!==o&&(o.checked=!1)}));const c=document.querySelectorAll('a[href^="#"]');for(let e=0;e<c.length;e++)c[e].addEventListener("click",(t=>{t.preventDefault();const n=c[e].href.indexOf("#")+1,o=c[e].href.substring(n);document.getElementById(o).getBoundingClientRect().top,window.pageYOffset;window.scroll({top:0,behavior:"smooth"})}))};const e=e=>{e.forEach((e=>{document.getElementById(e.labo+"-labo").appendChild(t(e))}))},t=e=>{const t=document.createElement("span"),n=document.createTextNode(e.name);return t.appendChild(n),t},n=e=>{e.forEach((e=>{document.getElementById("lecturer-profile-ul").appendChild(o(e))}))},o=e=>{const t=document.createElement("img");t.setAttribute("class","lecturer-profile-img"),t.setAttribute("src","./img/lecturers/"+e.img_name);const n=document.createTextNode(e.roman),o=document.createElement("span");o.setAttribute("class","lecturer-profile-text"),o.appendChild(n);const c=document.createTextNode(e.name),d=document.createElement("span");d.setAttribute("class","lecturer-profile-name"),d.appendChild(c);const l=document.createTextNode(e.belongs),r=document.createElement("span");r.setAttribute("class","lecturer-profile-text"),r.appendChild(l);const a=document.createElement("div");a.appendChild(t),a.appendChild(o),a.appendChild(d),a.appendChild(r);const i=document.createTextNode(e.position+"  "+e.career),s=document.createElement("p");s.appendChild(i);const m=document.createElement("li");return m.setAttribute("class","lecturer-profile-li"),m.appendChild(a),m.appendChild(s),m}})();

diff --git a/src/index.html b/src/index.html
@@ -24,7 +24,7 @@
  
     <body>
         <!-- ローディングアニメーション -->
-        <div id="loading">
+        <!-- <div id="loading">
             <div id="load-box">
                 <svg id="load-svg" width="24" height="64" viewBox="0 0 21 64" fill="#00A3D6" >
                     <path id="man-foot-1" d="M11.7948 40.0643C11.6898 42.1259 10.7779 51.2616 10.7272 51.9929C11.5528 52.0605 12.2342 52.0833 12.9041 52.1838C13.0004 52.1904 13.0944 52.2158 13.1807 52.2587C13.2669 52.3015 13.3437 52.361 13.4065 52.4335C13.4693 52.506 13.5169 52.5902 13.5464 52.6811C13.576 52.772 13.587 52.8678 13.5788 52.963C13.5821 53.1734 13.5018 53.3768 13.3552 53.5293C13.2086 53.6818 13.0073 53.7713 12.7947 53.7785C12.6086 53.8003 11.0622 53.7507 10.4159 53.8208C9.15825 53.9597 8.83721 53.7587 8.69258 52.5126C8.35474 49.6038 7.32023 39.8386 7.30448 39.6155C7.19948 38.1243 11.8751 38.4868 11.7948 40.0641" />
@@ -33,37 +33,41 @@
                 </svg>
                 <div id="load-bar"></div>
             </div>
-        </div>
+        </div> -->
 
         <!----- header----->
         <header>
             <label for="menu-check" class="test"><img id="menu-button" src="./img/menu-button.svg" alt="menu-button" /></label>
             <input type="checkbox" id="menu-check">
 
-            <ul id="header-ul">
-                <li class="header-li">
-                    <a href="#outline"><img class="header-nav-img" src="./img/outline.svg"/></a>
-                </li>
-                <li class="header-li">
-                    <a href="#greeting"><img class="header-nav-img" src="./img/greeting.svg"/></a>
-                </li>
-                <li class="header-li">
-                    <a href="#contents"><img class="header-nav-img" src="./img/contents.svg"/></a>
-                </li>
-                <li class="header-li">
-                    <a href="#event"><img class="header-nav-img" src="./img/event.svg"/></a>
-                </li>
-                <li class="header-li">
-                    <a href="#access"><img class="header-nav-img" src="./img/access.svg"/></a>
-                </li>
-            </ul>
+            <nav>
+                <ul id="header-ul">
+                    <li class="header-li">
+                        <a href="#outline"><img class="header-nav-img" src="./img/outline.svg"/></a>
+                    </li>
+                    <li class="header-li">
+                        <a href="#greeting"><img class="header-nav-img" src="./img/greeting.svg"/></a>
+                    </li>
+                    <li class="header-li">
+                        <a href="#contents"><img class="header-nav-img" src="./img/contents.svg"/></a>
+                    </li>
+                    <li class="header-li">
+                        <a href="#event"><img class="header-nav-img" src="./img/event.svg"/></a>
+                    </li>
+                    <li class="header-li">
+                        <a href="#access"><img class="header-nav-img" src="./img/access.svg"/></a>
+                    </li>
+                </ul>
+            </nav>
+            
         </header>
         <!----- /header ----->
 
         <div id="header-space"></div>
-        <div id="top-img">
-            <img id="title-img" src="./img/title.svg" alt="title">
-            <img id="title-img-sp" src="./img/title-sp.svg" alt="title">
+        <div>
+            <img id="top-background-img" src="./img/background.png" alt="">
+            <img id="title-img" src="./img/title.png" alt="title">
+            <img id="title-img-sp" src="./img/title-sp.png" alt="title">
         </div>
         
 

diff --git a/docs/css/common.css b/docs/css/common.css
@@ -1,1 +1,1 @@
-html{scroll-behavior:smooth;scroll-padding-top:118px}body{background-color:#e8f5f9;color:#185466;font-family:Hiragino Sans,sans-serif;font-size:14px;font-weight:300;letter-spacing:1.4;line-height:1.4;margin:0}header{background-color:#5eb9d7;height:80px;position:fixed;width:100vw;z-index:2}main{margin:0 auto;max-width:800px;padding:0 80px}section{margin:96px 0}h2{font-size:24px;font-weight:400}h3{font-size:14px;font-weight:600;margin-block-end:0}span{display:inline-block;margin-right:1em}ul{list-style-type:none;margin-block-end:0;margin-block-start:0;padding:0}footer{background-color:#0098c6;color:#fff;height:256px;text-align:center;width:100vw;z-index:1}@media screen and (max-width:750px){header{height:52px}main{padding:0 16px}}
+html{scroll-behavior:smooth;scroll-padding-top:118px}body{background-color:#e8f5f9;color:#185466;font-family:Hiragino Sans,sans-serif;font-size:14px;font-weight:300;letter-spacing:1.4;line-height:1.4;margin:0}header{background-color:#5eb9d7;height:80px;position:fixed;width:100vw;z-index:2}main{margin:0 auto;max-width:800px;padding:0 80px}section{margin:96px 0}h2{font-size:24px;font-weight:400}h3{font-size:14px;font-weight:600;margin-block-end:0}span{display:inline-block;margin-right:1em}ul{list-style-type:none;margin-block-end:0;margin-block-start:0;padding:0}footer{background-color:#0098c6;color:#fff;height:256px;text-align:center;width:100vw;z-index:1}@media screen and (max-width:750px){header{height:52px}nav{backdrop-filter:blur(10px);-webkit-backdrop-filter:blur(10px);background-color:rgba(0,152,198,.3);opacity:0;padding:16px;top:0;transform:translateY(-100%);transition:all .5s ease;width:100%}main{padding:0 16px}}

diff --git a/src/css/style.css b/src/css/style.css
@@ -37,11 +37,11 @@
     height: 80px;
 }
 
-#top-img {
+#top-background-img {
     width: 100%;
     height: calc(100vh - 80px);
-    background-image: url('../img/background.png');
-    background-size: cover;
+    object-fit: cover;
+    object-position: 0 0;
 }
 
 #title-img {
@@ -399,26 +399,16 @@
 /* 750px以下に適用されるCSS（スマホ用） */
 @media screen and (max-width: 750px) {
     #header-ul {
-        position: fixed;
-        top: 0;
-        justify-content: flex-start;
         flex-direction: column;
-        width: 100%;
         height: auto;
-        padding: 16px;
-        background-color: rgba(0, 152, 198, 0.3);
-        backdrop-filter: blur(10px);
-        -webkit-backdrop-filter: blur(10px);
-        opacity: 0;
-        transform: translateY(-100%);
-        transition: all 0.5s ease;
     }
 
     .header-nav-img {
         padding: 12px;
     }
 
-    #menu-check:checked+#header-ul {
+    /* menu-checkにチェックが入ったらメニューを表示する */
+    #menu-check:checked+nav {
         opacity: 1;
         transform: translateY(0);
     }
@@ -434,9 +424,11 @@
         height: 52px;
     }
 
-    #top-img {
-        height: calc(100vh - 52px);
-        background-position: left 30% bottom 0;
+    #top-background-img {
+        width: 100%;
+        height: calc(100vh - 80px);
+        object-fit: cover;
+        object-position: 30% 0;
     }
 
     #title-img {
@@ -447,7 +439,7 @@
         display: block;
         position: absolute;
         top: 160px;
-        right: 32px;
+        right: 16px;
     }
 
     #top-info-inner-div {

diff --git a/src/js/main.js b/src/js/main.js
@@ -10,7 +10,6 @@ fetch('./json/lecturer.json')
 .then(data => insertLecturer(data));
 
 window.onload = () => {
-    
     let isModalShow = false;
     const modal = document.getElementById('modal');
     const menu = document.getElementById('header-ul');
@@ -40,9 +39,30 @@ window.onload = () => {
         }
     });
 
-    
-    
+    // aタグ要素の参照を取得
+    const links = document.querySelectorAll('a[href^="#"]');
+    // 各aタグにクリックイベントを設定
+    for ( let i = 0; i < links.length; i++ ) {
+        links[i].addEventListener('click', (e) => {
+            // デフォルトのイベントをキャンセル
+            e.preventDefault();
+            const index = links[i].href.indexOf('#') + 1;
+            const targetId = links[i].href.substring(index);
+            const target = document.getElementById(targetId)
 
+            // 対象（aタグ）のY軸の絶対座標を取得
+            const elemY = target.getBoundingClientRect().top;
+            // 現在のスクロール量を取得
+            const scrollY = window.pageYOffset;
+            // 対象までのスクロール量を算出
+            const top = elemY - scrollY;
+
+            window.scroll({
+                top: 0, // スクロール量の設定
+                behavior: 'smooth' // スクロール動作の設定
+            });
+        });
+    }
 }
 
 const insertExhibitor = (exhibitors) => {

diff --git a/src/css/common.css b/src/css/common.css
@@ -16,14 +16,13 @@ body {
 
 header {
     position: fixed;
-    
     width: 100vw;
     height: 80px;
-    
     background-color: #5EB9D7;
-
     z-index: 2;
 }
+
+
 
 main {
     margin: 0 auto;
@@ -72,6 +71,19 @@ footer {
 
     header {
         height: 52px;
+    }
+
+    nav {
+        /* position: fixed; */
+        top: 0;
+        width: 100%;
+        padding: 16px;
+        background-color: rgba(0, 152, 198, 0.3);
+        backdrop-filter: blur(10px);
+        -webkit-backdrop-filter: blur(10px);
+        opacity: 0;
+        transform: translateY(-100%);
+        transition: all 0.5s ease;
     }
 
     main {
